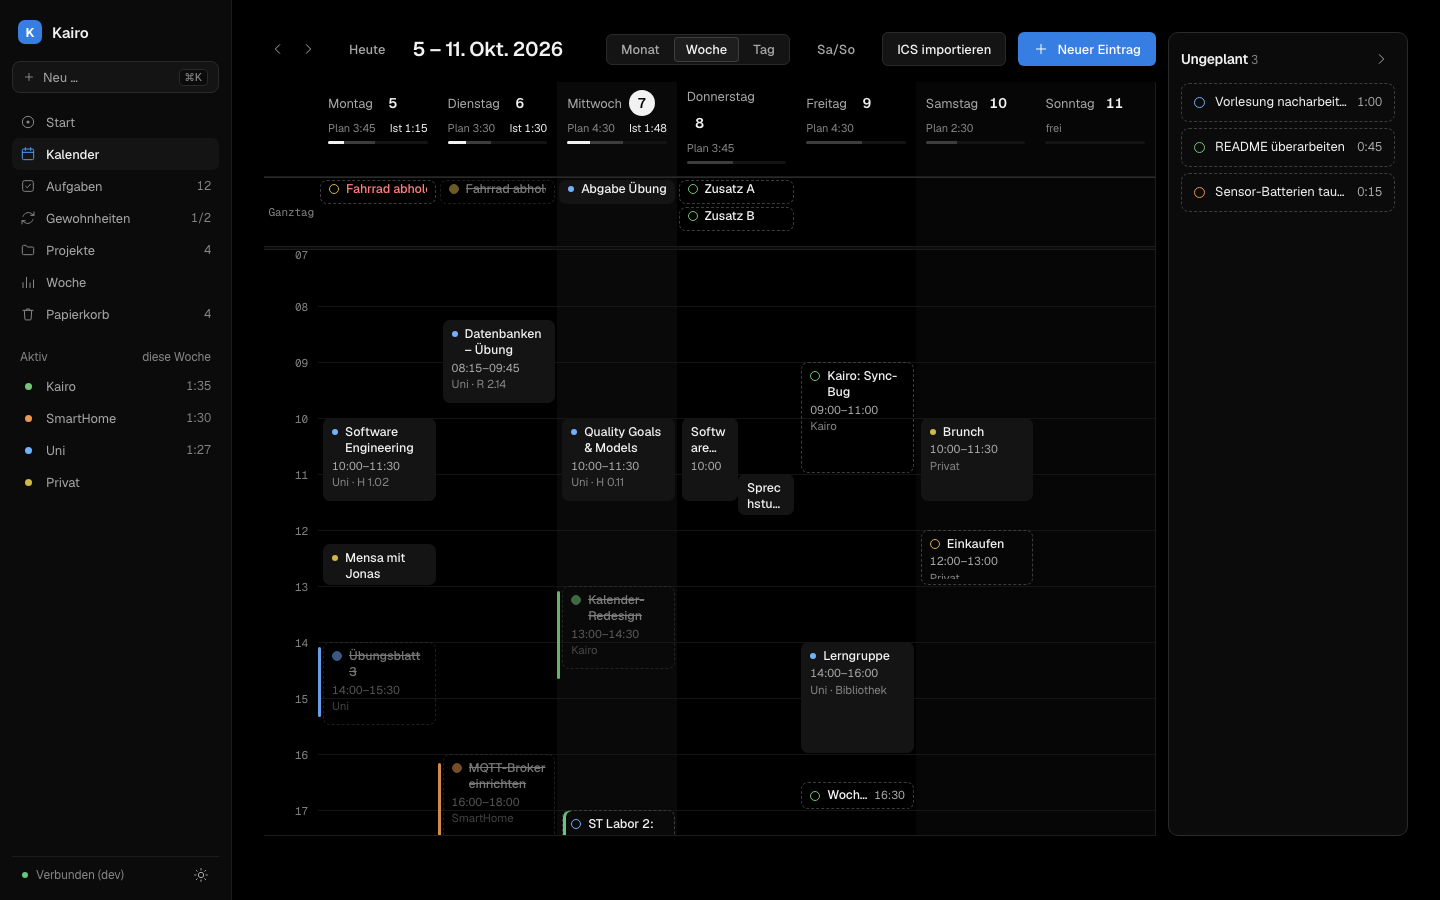
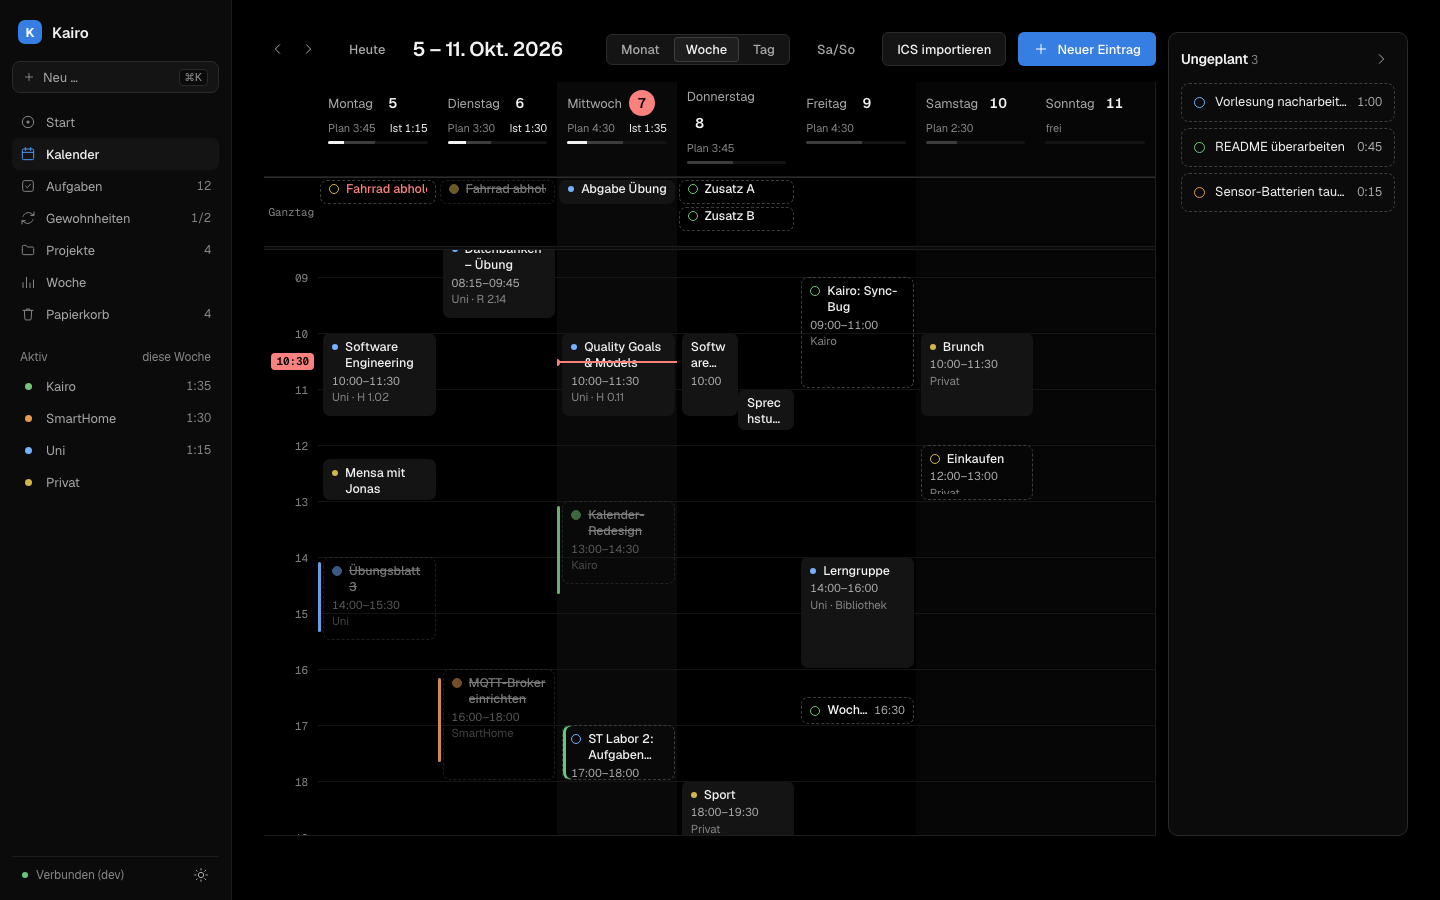
feat(frontend): Kalender mit roter Akzentfarbe, Start bei der aktuellen Uhrzeit
- Jetzt-Linie, Uhrzeit-Chip und der heutige Tag sind rot (--a-red)
- Das Zeitraster scrollt beim Öffnen, bei Ansichts- und Datumswechsel auf die
  aktuelle Zeit (ein bis anderthalb Stunden davor, Start auf :30, damit kein
  Stundenlabel am Rand abgeschnitten wird)
- shot.mjs: --time setzt die Uhrzeit fest, damit Screenshots reproduzierbar sind

diff --git a/frontend/src/calendar.css b/frontend/src/calendar.css
@@ -4,7 +4,7 @@
   --fc-page-bg-color: transparent;
   --fc-neutral-bg-color: var(--bg-1);
   --fc-today-bg-color: transparent;
-  --fc-now-indicator-color: var(--a-now);
+  --fc-now-indicator-color: var(--a-red);
   --fc-event-bg-color: var(--bg-1);
   --fc-event-text-color: var(--tx-primary);
   font: 400 13px/1.3 var(--font-ui);
@@ -12,6 +12,7 @@
 }
 .fc a { color: inherit; text-decoration: none; }
 
+/* Akzent des Kalenders ist Rot (--a-red): Jetzt-Linie und der heutige Tag. */
 /* Raster: ruhig, nur feine Stundenlinien; heute als leichte Fläche, Wochenende dunkler */
 .fc .fc-scrollgrid, .fc .fc-scrollgrid-section > td, .fc .fc-scrollgrid-section > th { border-color: var(--br-subtle); }
 .fc .fc-scrollgrid { border-width: 0; }
@@ -34,7 +35,7 @@
 .fc .kt-dh { display: flex; flex-wrap: wrap; align-items: center; gap: 7px; }
 .fc .kt-dh small { font: 400 13px/1 var(--font-ui); color: var(--tx-secondary); text-transform: capitalize; }
 .fc .kt-dh b { display: grid; place-items: center; min-width: 26px; height: 26px; border-radius: 13px; font: 600 14px/1 var(--font-ui); font-variant-numeric: tabular-nums; color: var(--tx-primary); }
-.fc .kt-dh.today b { background: var(--tx-primary); color: var(--bg-0); }
+.fc .kt-dh.today b { background: var(--a-red); color: var(--bg-0); }
 .fc .kt-row { flex: 1 0 100%; display: flex; justify-content: space-between; min-height: 11px; font: 400 11px/1 var(--font-ui); font-variant-numeric: tabular-nums; color: var(--tx-muted); }
 .fc .kt-ist { color: var(--tx-primary); }
 .fc .kt-bar { flex: 1 0 100%; position: relative; height: 3px; border-radius: 2px; overflow: hidden; background: var(--bg-2); }
@@ -43,13 +44,13 @@
 .fc .kt-bar .t { background: var(--tx-primary); }
 
 /* Jetzt-Linie mit Uhrzeit im Achsen-Chip */
-.fc .fc-timegrid-now-indicator-line { border-width: 1.5px 0 0; }
+.fc .fc-timegrid-now-indicator-line { border-width: 2px 0 0; }
 .fc .fc-timegrid-now-indicator-line::before {
-  content: ''; position: absolute; left: -4px; top: -4.5px; width: 7px; height: 7px; border-radius: 50%; background: var(--a-now);
+  content: ''; position: absolute; left: -4px; top: -4.5px; width: 7px; height: 7px; border-radius: 50%; background: var(--a-red);
 }
 .fc .fc-timegrid-now-indicator-arrow {
   border: 0; margin-top: -8px; right: 4px; left: auto; padding: 2px 5px; border-radius: 4px;
-  background: var(--a-now); color: var(--bg-0); font: 600 11px/1.2 var(--font-mono); font-variant-numeric: tabular-nums;
+  background: var(--a-red); color: var(--bg-0); font: 600 11px/1.2 var(--font-mono); font-variant-numeric: tabular-nums;
 }
 
 /* Erfasste Zeit: schmale Spur links im Tag in der Projektfarbe */
@@ -151,7 +152,7 @@
 }
 .fc .fc-day-past .fc-daygrid-day-number { color: var(--tx-muted); }
 .fc .fc-day-other .fc-daygrid-day-number { color: var(--tx-disabled); opacity: .6; }
-.fc .fc-day-today .fc-daygrid-day-number { background: var(--tx-primary); color: var(--bg-0); }
+.fc .fc-day-today .fc-daygrid-day-number { background: var(--a-red); color: var(--bg-0); }
 .fc .fc-daygrid-event-harness { margin-top: 0; }
 .fc .fc-dayGridMonth-view .fc-daygrid-event {
   height: 21px; margin: 0 0 3px; border: 0; border-radius: 4px; box-shadow: none;

diff --git a/frontend/src/views/CalendarView.vue b/frontend/src/views/CalendarView.vue
@@ -351,6 +351,14 @@ useShortcuts((e) => {
   e.preventDefault()
 })
 
+// Das Zeitraster beginnt ein bis anderthalb Stunden vor jetzt, nie vor dem ersten Slot.
+// Der Start liegt auf :30, weil das Label einer vollen Stunde am oberen Rand sonst halb abgeschnitten wird.
+const SLOT_MIN_HOUR = 7
+const scrollStart = () => {
+  const h = new Date().getHours() - 1
+  return h <= SLOT_MIN_HOUR ? `${String(SLOT_MIN_HOUR).padStart(2, '0')}:00:00` : `${String(h - 1).padStart(2, '0')}:30:00`
+}
+
 const options: CalendarOptions = {
   plugins: [dayGridPlugin, timeGridPlugin, interactionPlugin],
   locales: [deLocale],
@@ -364,9 +372,9 @@ const options: CalendarOptions = {
   height: '100%',
   nowIndicator: true,
   slotEventOverlap: false, // gleichzeitige Einträge nebeneinander statt gestapelt
-  slotMinTime: '07:00:00', // Mockup: 07–18 Uhr; bis 22 Uhr, damit Abendtermine nicht verschwinden
+  slotMinTime: `${String(SLOT_MIN_HOUR).padStart(2, '0')}:00:00`, // bis 22 Uhr, damit Abendtermine nicht verschwinden
   slotMaxTime: '22:00:00',
-  scrollTime: '07:00:00',
+  scrollTime: scrollStart(),
   eventClassNames: (a) => (a.event.id === nextId ? ['kt-next'] : []),
   datesSet: (a) => {
     const day = a.view.type === 'timeGridDay'
@@ -374,6 +382,7 @@ const options: CalendarOptions = {
     week.value = day ? isoWeek(a.view.currentStart) : 0
     view.value = a.view.type
     store.set('kairo-cal-view', a.view.type)
+    a.view.calendar.scrollToTime(scrollStart()) // scrollTime stammt vom Seitenaufruf, die Seite kann länger offen sein
   },
   dayHeaderContent: (a) => {
     const month = a.view.type === 'dayGridMonth'

diff --git a/AGENTS.md b/AGENTS.md
@@ -17,4 +17,4 @@ Anweisungen für Coding-Agenten in diesem Repository.
 - Kein automatischer Timer, nur weil ein Workspace geöffnet wurde.
 - Arbeite in kleinen vertikalen Schritten.
 - Vor dem Abschluss `make check` ausführen (gofmt, vet, Tests, Typprüfung, Extension-Build).
-- UI-Änderungen im Frontend ansehen, nicht nur bauen: `npm run dev`, dann `npm run shot -- --view week|work|day|month` (Kalender) bzw. `--route tasks|habits|projects|review|trash` [--theme light] [--size 1280x800] [--click '<Selektor>'] in `frontend/` und das PNG in `frontend/.shots/` lesen (Mock-Daten, siehe `scripts/shot.mjs`).
+- UI-Änderungen im Frontend ansehen, nicht nur bauen: `npm run dev`, dann `npm run shot -- --view week|work|day|month` (Kalender) bzw. `--route tasks|habits|projects|review|trash` [--theme light] [--size 1280x800] [--time 10:30] [--click '<Selektor>'] in `frontend/` und das PNG in `frontend/.shots/` lesen (Mock-Daten, siehe `scripts/shot.mjs`).

diff --git a/README.md b/README.md
@@ -88,7 +88,7 @@ UI-Änderungen werden angesehen, nicht nur gebaut. Mit laufendem `npm run dev` e
 ```sh
 cd frontend
 npm run shot -- --view week|work|day|month     # Kalender
-npm run shot -- --route tasks|habits|projects|review|trash [--theme light] [--size 1280x800]
+npm run shot -- --route tasks|habits|projects|review|trash [--theme light] [--size 1280x800] [--time 10:30]
 ```
 
 ## Konfiguration und Sicherheit
